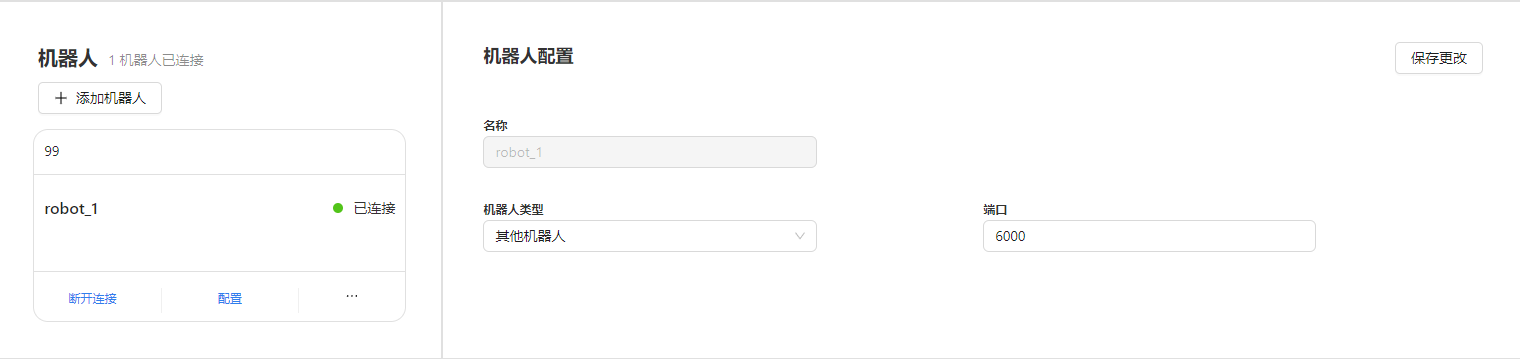
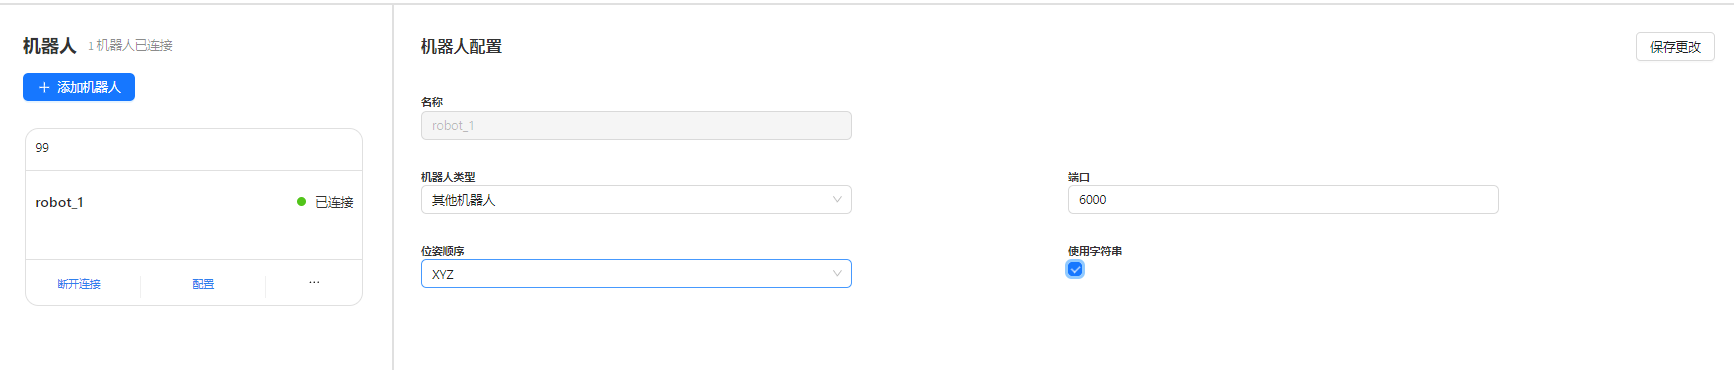
added robot byte or string option, added ui update

diff --git a/docs/source/robot-communication/index.rst b/docs/source/robot-communication/index.rst
@@ -4,35 +4,65 @@
 
 本章会详细介绍各类机器人与视觉认知系统交互的通讯接口。
 
-.. notes::
-
+.. note::
+    
     Orientation字段四位整数顺序说明：
 
-    目前视觉认知系统对支持机器人所用的 Orientation/定位字段 收发顺序为
+    目前视觉认知系统对支持机器人所用的 Orientation/定位字段 收发顺序为 |br|
 
-    0   ABB 四元数
-    1   Fanuc   XYZ
-    2   Hanwha  ZYX
-    3   Kuka    ZYX
-    6   Staubli ZYX
-    7   UR  轴角顺序
-    8   Yaskawa ZYX
-    9   Efort   ZYZ
-    10  Aubo    ZYX
-    11  Dobot   ZYX
-    12  Mitsubishi  ZYX
-    13  Elite   ZYX
-    14  Jaka    ZYX
-    15  Hans    ZYX
-    16  Zhibolin    ZYX
-    17  CGX     ZYX
-    18  Tulin   ZYX
-    99  other   自定义顺序
+    0   ABB, 四元数, 字节串 48字节 |br|
+    1   Fanuc,   XYZ, 字符串 |br|
+    2   Hanwha,  ZYX, 字节串 48字节 |br|
+    3   Kuka,    ZYX, 字节串 48字节 |br|
+    6   Staubli, ZYX, 字节串 48字节 |br|
+    7   UR,  轴角顺序, 字节串 48字节 |br|
+    8   Yaskawa, ZYX, 字节串 48字节 |br|
+    9   Efort,   ZYZ, 字节串 48字节 |br|
+    10  Aubo,    ZYX, 字节串 48字节 |br|
+    11  Dobot,   ZYX, 字符串 |br|
+    12  Mitsubishi,  ZYX, 字符串 |br|
+    13  Elite,   ZYX, 字符串 |br|
+    14  Jaka,    ZYX, 字符串 |br|
+    15  Hans,    ZYX, 字符串 |br|
+    16  Zhibolin,    ZYX, 字节串 48字节 |br| 
+    17  CGX,     ZYX, 字节串 48字节 |br|
+    18  Tulin,   ZYX, 字节串 48字节 |br|
+    99  other,   自定义顺序, 自定义收发格式 |br|
+
+
+    机器人通讯分为 ``字符串`` 收发，和 ``字节串`` 收发，交互时请注意收发格式
+
+
+字符串
+--------
+
+字符串的收发是以 ',' 为分隔符，以 ';' 为终止符. 结构详情请查阅 :ref:`协议/Protocol`
+
+.. note::
+
+    请求消息的组成为 “x,y,z,rx,ry,rz,w,command,payload_1,payload_2,meta_1,meta_2;”. (其中w是四元数的实部，其它顺序填0即可) |br|
+
+    例：请求消息 “8666960,297000,12610000,6989,1772190,1796940,0,21,2,0,99,1;” |br|
+
+    回复消息的组成为 “x,y,z,rx,ry,rz,w,payload_1,payload_2,status,meta_1,meta_2;”. |br|
+    
+    例：回复消息 “8666960,297000,12610000,6989,1772190,1796940,0,1,0,3,99,1;” |br|
+
+
+字节串
+--------
+
+字节串的收发消息长度固定为48个字节（byte）, 结构详情请查阅 :ref:`协议/Protocol`
 
 
 各类机器人的使用和通讯协议
+------------------------------
 
 .. toctree::
     :maxdepth: 1
 
     ur
+
+.. |br| raw:: html
+
+      <br>

diff --git a/docs/source/getting-started/vision-studio-guide/connect_robot.rst b/docs/source/getting-started/vision-studio-guide/connect_robot.rst
@@ -16,8 +16,13 @@
 2. 点击配置，调出配置页面
 3. 选择机器人类型
 4. 输入端口号
-5. 保存更改
-6. 连接机器人
+5. (机器人类型为其它时) 选择位姿顺序
+6. (机器人类型为其它时) 选择收发格式，勾选后使用字符串收发，不勾选使用字节串收发。
+7. 保存更改
+8. 连接机器人
+9. 删除机器人
+
+机器人通讯协议详情请查阅 :ref:`机器人通讯`
 
 |
 
@@ -35,7 +40,6 @@
 
 在运行UR机器人脚本后，可以连接机器人到DaoAI机器人视觉认知系统了。
 
-
 .. tips::
     如果无法连接，请检查电脑的ip, 和端口是否正和机器人脚本中一致。
 
@@ -45,13 +49,16 @@
 
 使用Hercules为例，连接虚拟机器人到DaoAI机器人视觉认知系统。
 
-在连接机器人一栏，选择机器人类型为 ``其他机器人``， ``端口``以6000为例。
+在连接机器人一栏，选择机器人类型为 ``其他机器人``， ``端口`` 以6000为例。
 
 .. image:: images/connect_virtual.png
     :scale: 80%
 
 |
 
+选择使用的旋转顺序。
+
+选择收发格式，勾选使用字符串，不勾选时会使用字节串。更多请查阅 :ref:`机器人通讯`
 
 .. image:: images/hercules.png
     :scale: 100%
@@ -63,9 +70,6 @@
 1. 切换到Tcp_Client一栏， 
 2. ip 输入 127.0.0.1, 并输入设置好的端口 6000。 
 3. 点击连接，就可以连接到DaoAI机器人视觉认知系统了。
-4. 可以在左边的输入栏编辑消息，然后点击发送到视觉认知系统。
+4. 可以在左边的输入栏编辑消息，然后点击发送到视觉认知系统。不勾选HEX发送时是以字符串的格式发送。更多请查阅 :ref:`字符串`
+5. 如果使用字节串收发，请勾选HEX再发送，发送的信息需要是十六进制格式。更多请查阅 :ref:`字节串`
 
-
-
-
-了解机器人通讯详情请阅读 :ref:`机器人通讯`

diff --git a/docs/source/robot-communication/ur_interface.rst b/docs/source/robot-communication/ur_interface.rst
@@ -52,7 +52,7 @@ UR机器人通讯接口
 |
 
 请求消息
-----------
+~~~~~~~~~~
 
 从机器人发送到视觉认知系统的指令消息长度为48个字节，由以下字段组成：
 
@@ -91,7 +91,7 @@ UR机器人通讯接口
 |
 
 回应消息
----------------
+~~~~~~~~~~~~~
 
 除姿势更新请求外，所有请求指令都使用64字节长的回应消息进行应答，其结构如下：
 
